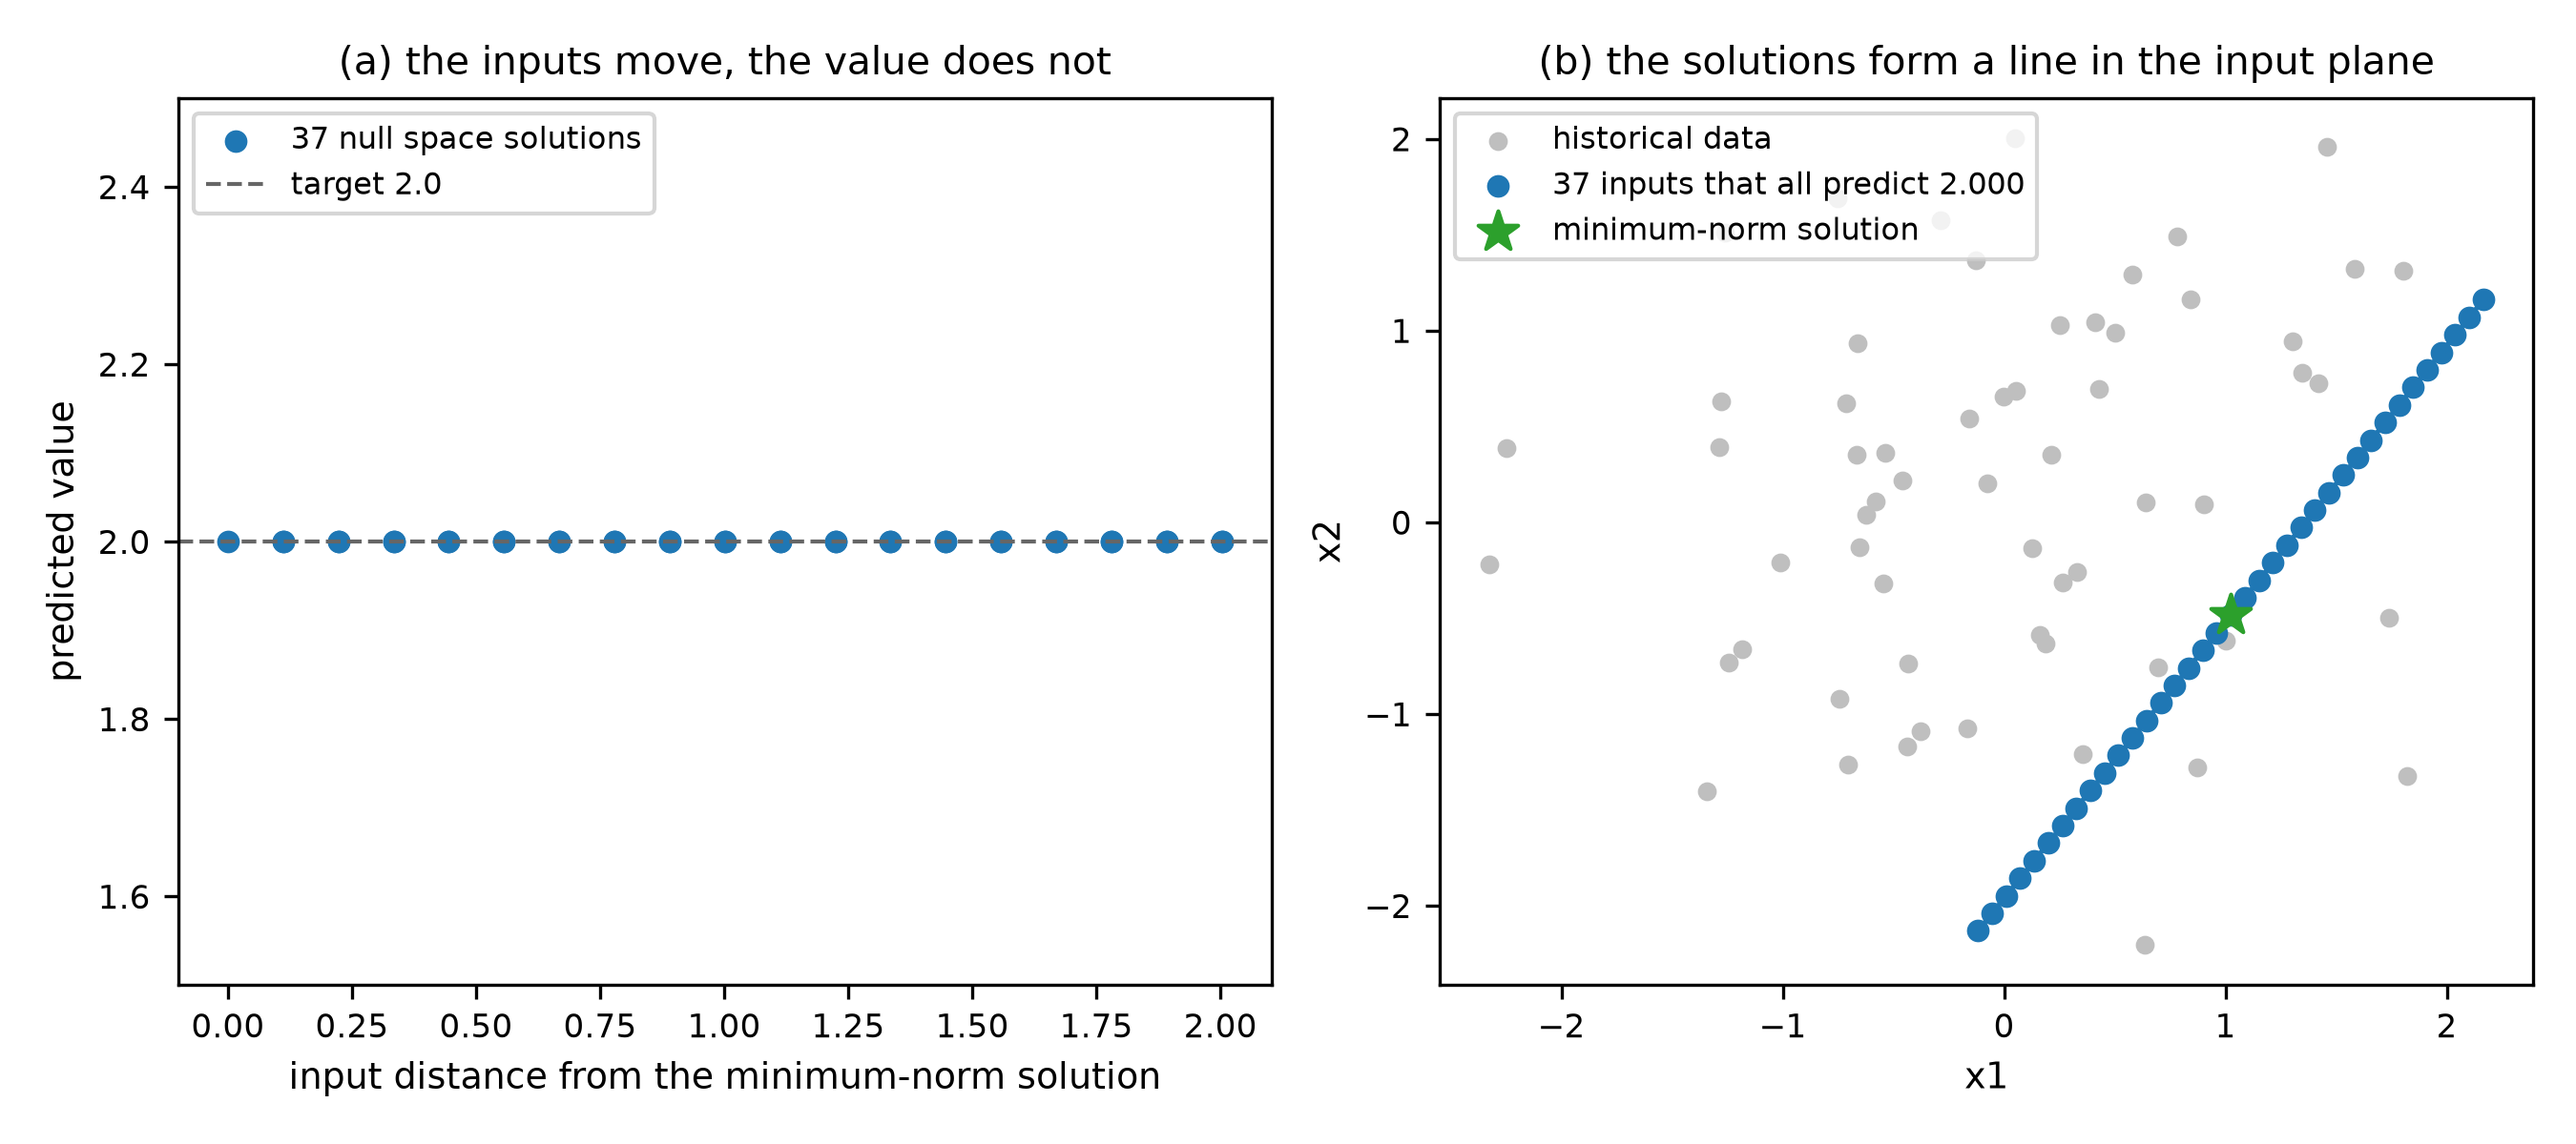
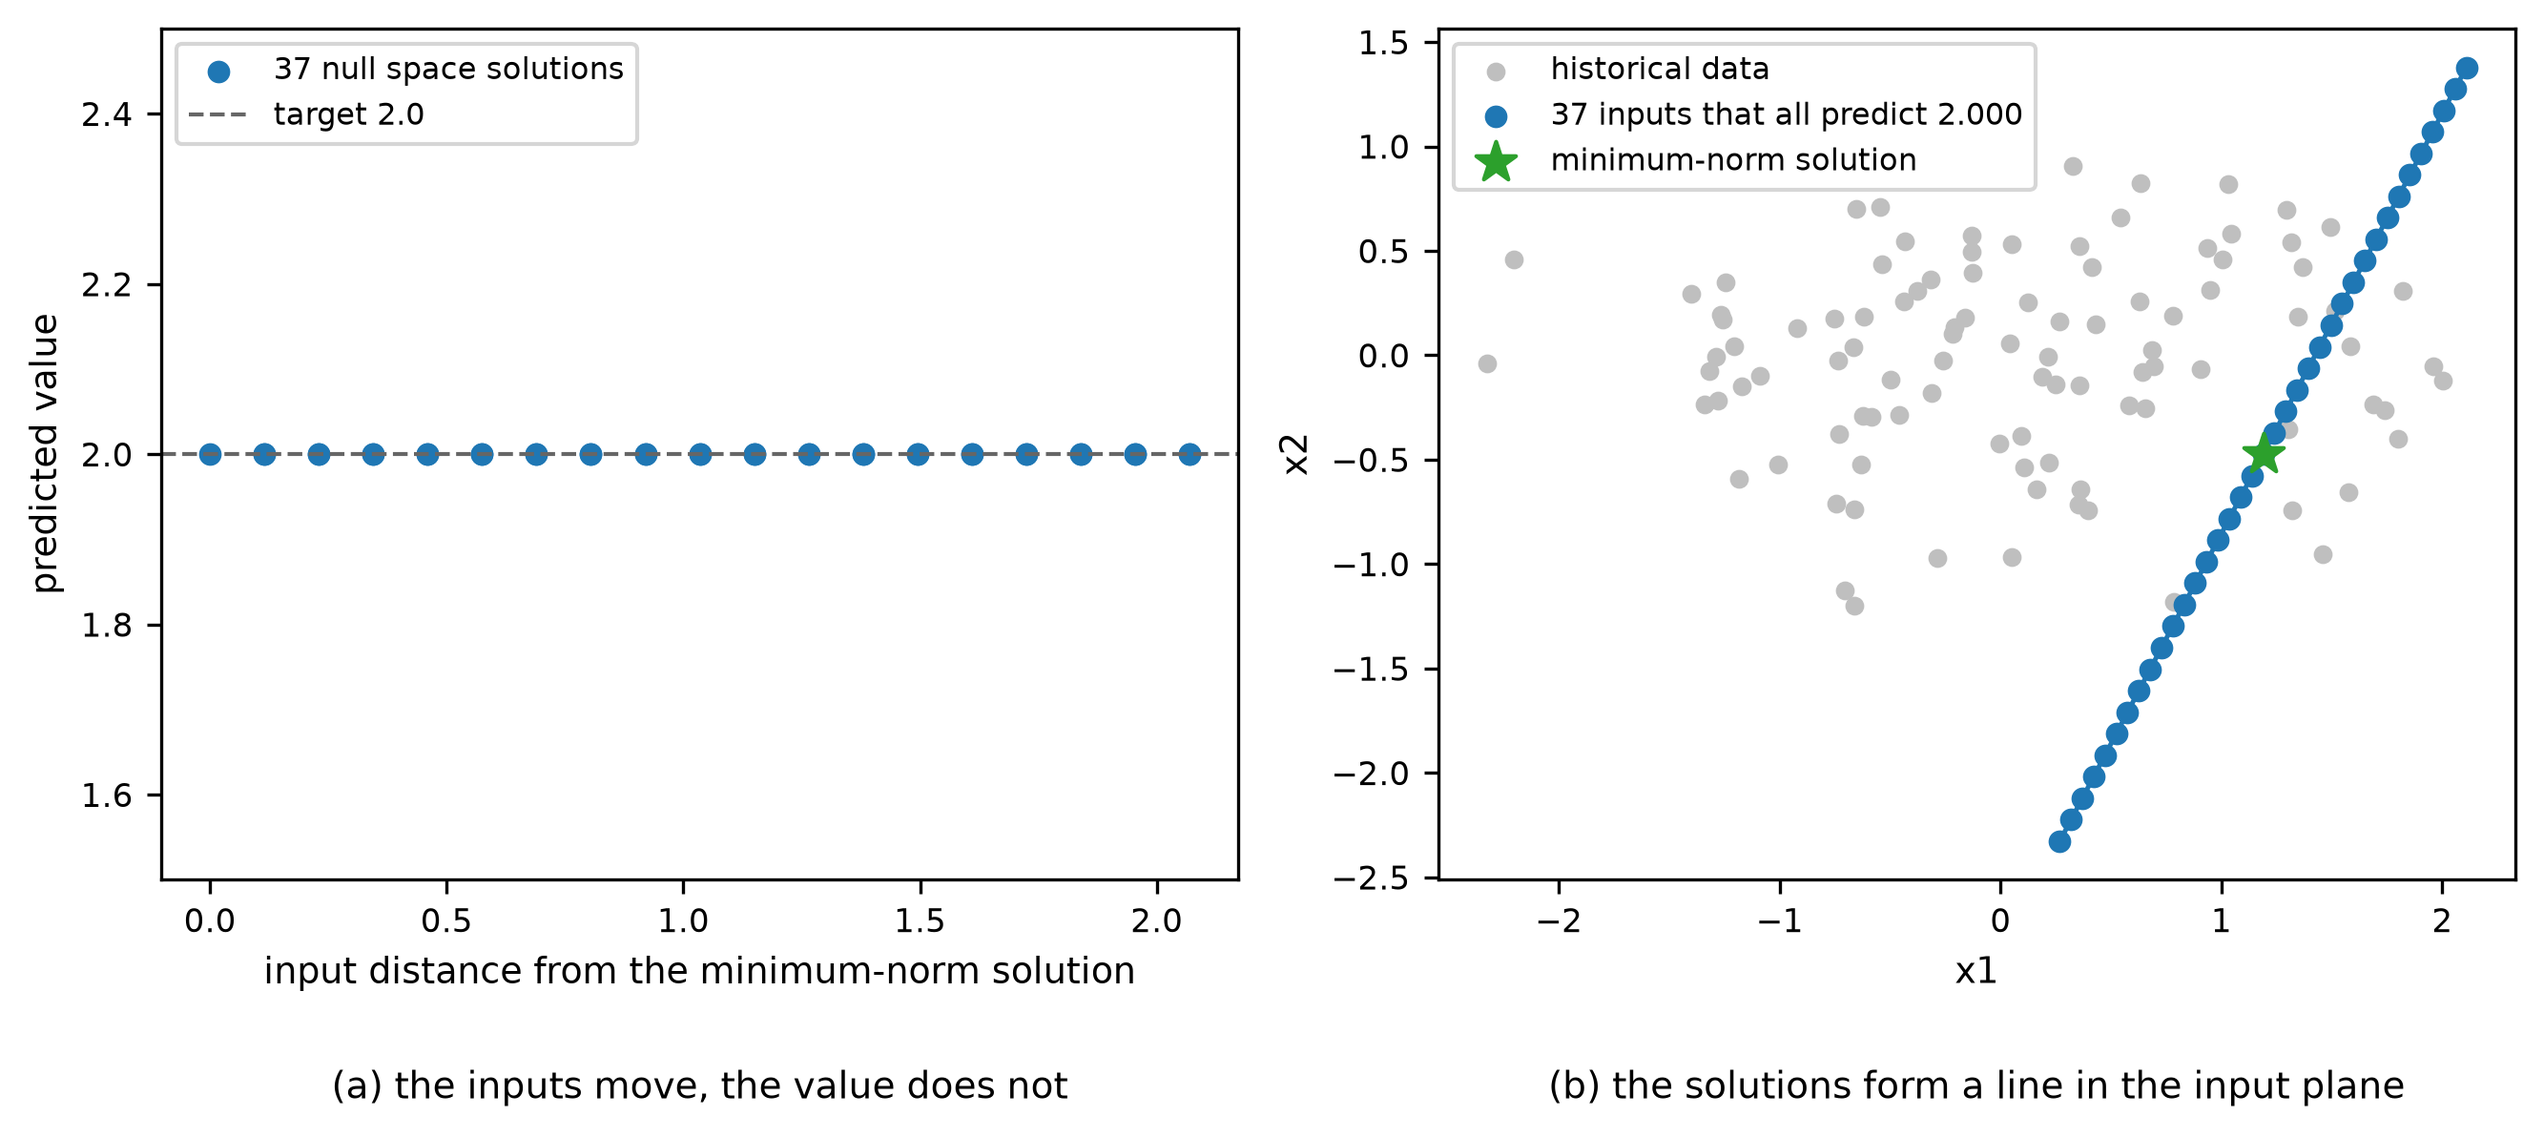
docs(Inversion-Problem): let the two inputs differ in spread
100 samples, x1 twice as wide as x2 around the same mean, so the density
of Fig 3 (a) is an ellipse rather than a circle and the caption can name
the two distributions. Panel labels move under their charts, placed at one
height across the figure.

diff --git a/Models/Inversion-Problem/inversion_problem_fig.py b/Models/Inversion-Problem/inversion_problem_fig.py
@@ -1,6 +1,6 @@
 """Draw the Appendix B and Appendix C figures of inversion-problem.md."""
 __author__ = 'yRocket'
-__version__ = "0.1.0.2026.8.29"  # Semantic Versioning: Major.Minor.Patch.Date(YYYY.M.D)
+__version__ = "0.2.0.2026.8.29"  # Semantic Versioning: Major.Minor.Patch.Date(YYYY.M.D)
 
 import argparse
 import pathlib
@@ -33,12 +33,20 @@ def font_size(scale: float = 1.0) -> float:
     return BASE_FONT_SIZE * FIGSIZE[0] / REFERENCE_WIDTH * scale
 
 
+def sub_caption(fig, axes_group: list, text: str, y: float = 0.02) -> None:
+    """Put the panel label below the chart, centred on the axes the panel is made of."""
+    boxes = [ax.get_position() for ax in axes_group]
+    x = (min(box.x0 for box in boxes) + max(box.x1 for box in boxes)) / 2
+    fig.text(x, y, text, ha='center', va='bottom', fontsize=font_size(1.05))
+
+
 def build_appendix_b_model() -> tuple:
     """Rebuild the Appendix B data and PLS model. Returns (x_data, y_data, x_mean, y_mean, pls)."""
     rng = np.random.default_rng(0)
-    n, k, n_comp = 60, 2, 2
-    x_data = rng.normal(size=(n, k))
-    y_data = 1.5 * x_data[:, 0] - 0.8 * x_data[:, 1] + rng.normal(0, 1.1, n)
+    n, n_comp = 100, 2
+    # both inputs are centred at 0, x1 spread twice as wide as x2
+    x_data = np.column_stack([rng.normal(0.0, 1.0, n), rng.normal(0.0, 0.5, n)])
+    y_data = 1.5 * x_data[:, 0] - 0.8 * x_data[:, 1] + rng.normal(0, 0.85, n)
 
     x_mean, y_mean = x_data.mean(axis=0), y_data.mean()
     pls = PLSRegression(n_components=n_comp, scale=False).fit(x_data - x_mean, y_data - y_mean)
@@ -67,7 +75,7 @@ def draw_parity(out_folder: pathlib.Path) -> pathlib.Path:
                               x_data[:, 1].min() - 0.6:x_data[:, 1].max() + 0.6:120j]
     density = gaussian_kde(x_data.T)(np.vstack([grid_x.ravel(), grid_y.ravel()])).reshape(grid_x.shape)
     ax_main.contour(grid_x, grid_y, density, levels=6, colors=COLORS[0], linewidths=1.0)
-    ax_main.scatter(x_data[:, 0], x_data[:, 1], s=14, color='0.45', label='60 samples')
+    ax_main.scatter(x_data[:, 0], x_data[:, 1], s=14, color='0.45', label='100 samples')
     ax_main.set_xlabel('x1', fontsize=font_size())
     ax_main.set_ylabel('x2', fontsize=font_size())
     ax_main.tick_params(labelsize=font_size(0.9))
@@ -75,14 +83,12 @@ def draw_parity(out_folder: pathlib.Path) -> pathlib.Path:
 
     ax_top.hist(x_data[:, 0], bins=12, color=COLORS[0])
     ax_top.tick_params(labelbottom=False, labelsize=font_size(0.8))
-    ax_top.set_title('(a) the two inputs, drawn from a normal distribution',
-                     fontsize=font_size(1.05))
     ax_right.hist(x_data[:, 1], bins=12, orientation='horizontal', color=COLORS[0])
     ax_right.tick_params(labelleft=False, labelsize=font_size(0.8))
 
     span = [min(y_data.min(), y_pred.min()) - 0.2, max(y_data.max(), y_pred.max()) + 0.2]
     ax_parity.plot(span, span, color='0.5', linestyle='--', linewidth=1.0, label='1:1 line')
-    ax_parity.scatter(y_data, y_pred, s=18, color=COLORS[0], label='60 samples')
+    ax_parity.scatter(y_data, y_pred, s=18, color=COLORS[0], label='100 samples')
     ax_parity.axhline(2.0, color=COLORS[3], linestyle=':', linewidth=1.2, label='inversion target 2.0')
     ax_parity.set_xlim(span)
     ax_parity.set_ylim(span)
@@ -90,7 +96,10 @@ def draw_parity(out_folder: pathlib.Path) -> pathlib.Path:
     ax_parity.set_ylabel('predicted value', fontsize=font_size())
     ax_parity.tick_params(labelsize=font_size(0.9))
     ax_parity.legend(fontsize=font_size(0.8), loc='upper left')
-    ax_parity.set_title(f'(b) parity plot, R2 = {r2:.3f}, RMSE = {rmse:.2f}', fontsize=font_size(1.05))
+
+    fig.subplots_adjust(bottom=0.20)
+    sub_caption(fig, [ax_main, ax_top, ax_right], '(a) the two sampled inputs and their distributions')
+    sub_caption(fig, [ax_parity], f'(b) parity plot, R2 = {r2:.3f}, RMSE = {rmse:.2f}')
 
     out_path = out_folder / 'appendix-b-parity.png'
     out_folder.mkdir(parents=True, exist_ok=True)
@@ -134,7 +143,6 @@ def draw_null_space(out_folder: pathlib.Path) -> pathlib.Path:
     ax.set_ylabel('predicted value', fontsize=font_size())
     ax.tick_params(labelsize=font_size(0.9))
     ax.legend(fontsize=font_size(0.85), loc='upper left')
-    ax.set_title('(a) the inputs move, the value does not', fontsize=font_size(1.1))
 
     ax = axes[1]
     ax.scatter(x_data[:, 0], x_data[:, 1], s=14, color='0.75', label='historical data')
@@ -147,12 +155,13 @@ def draw_null_space(out_folder: pathlib.Path) -> pathlib.Path:
     ax.set_ylabel('x2', fontsize=font_size())
     ax.tick_params(labelsize=font_size(0.9))
     ax.legend(fontsize=font_size(0.85), loc='upper left')
-    ax.set_title('(b) the solutions form a line in the input plane', fontsize=font_size(1.1))
 
-    fig.tight_layout()
+    fig.tight_layout(rect=(0.0, 0.08, 1.0, 1.0))
+    sub_caption(fig, [axes[0]], '(a) the inputs move, the value does not')
+    sub_caption(fig, [axes[1]], '(b) the solutions form a line in the input plane')
     out_path = out_folder / 'appendix-b-null-space.png'
     out_folder.mkdir(parents=True, exist_ok=True)
-    fig.savefig(out_path, dpi=DPI)
+    fig.savefig(out_path, dpi=DPI, bbox_inches='tight')
     plt.close(fig)
     print(f'wrote {out_path}, predictions in [{preds.min():.4f}, {preds.max():.4f}], '
           f'distance up to {distances.max():.3f}')
@@ -208,7 +217,6 @@ def draw_constrained_inversion(out_folder: pathlib.Path) -> pathlib.Path:
     ax.set_ylabel('x3', fontsize=font_size())
     ax.tick_params(labelsize=font_size(0.9))
     ax.legend(fontsize=font_size(0.85), loc='upper left')
-    ax.set_title('(a) the constrained solution keeps the input correlation', fontsize=font_size(1.05))
 
     ax = axes[1]
     labels = ['T2', 'SPE']
@@ -229,12 +237,13 @@ def draw_constrained_inversion(out_folder: pathlib.Path) -> pathlib.Path:
     ax.set_ylabel('value / limit', fontsize=font_size())
     ax.tick_params(axis='y', labelsize=font_size(0.9))
     ax.legend(fontsize=font_size(0.85))
-    ax.set_title(f'(b) both hit the target {y_des:.1f}, only one stays valid', fontsize=font_size(1.05))
 
-    fig.tight_layout()
+    fig.tight_layout(rect=(0.0, 0.08, 1.0, 1.0))
+    sub_caption(fig, [axes[0]], '(a) the constrained solution keeps the input correlation')
+    sub_caption(fig, [axes[1]], f'(b) both hit the target {y_des:.1f}, only one stays valid')
     out_path = out_folder / 'appendix-c-constrained-inversion.png'
     out_folder.mkdir(parents=True, exist_ok=True)
-    fig.savefig(out_path, dpi=DPI)
+    fig.savefig(out_path, dpi=DPI, bbox_inches='tight')
     plt.close(fig)
     print(f'wrote {out_path}')
     print(f'  with SPE : pred={forward.predict(x_sol[None, :])[0]:.4f} '

diff --git a/Models/Inversion-Problem/inversion-problem.md b/Models/Inversion-Problem/inversion-problem.md
@@ -1,5 +1,5 @@
 # Inverse Problem and Model Inversion
-Rev. 12 | Created: 2026-08-28 | Updated: 2026-08-29 01:25 CDT
+Rev. 13 | Created: 2026-08-28 | Updated: 2026-08-29 01:30 CDT
 
 학습된 model 은 보통 입력에서 출력을 계산하는 방향으로 쓰인다. 원하는 출력을 먼저 정하고 그것을 만들어 내는 입력을 되찾는 문제가 inverse problem 이고, 이미 학습된 model 을 그 목적에 되돌려 쓰는 방법이 model inversion 이다. 이 문서는 두 용어를 정의하고, 해법을 다섯 축으로 분류한 다음, latent variable model inversion 의 고전적 결과와 model 종류별 inversion 방법을 정리한다.
 
@@ -331,13 +331,14 @@ from sklearn.cross_decomposition import PLSRegression
 rng = np.random.default_rng(0)
 
 # historical plant data: 2 process inputs, 1 quality output
-n, k, n_comp = 60, 2, 2
-X = rng.normal(size=(n, k))
-y = 1.5 * X[:, 0] - 0.8 * X[:, 1] + rng.normal(0, 1.1, n)
+# both inputs are centred at 0, x1 spread twice as wide as x2
+n, n_comp = 100, 2
+X = np.column_stack([rng.normal(0.0, 1.0, n), rng.normal(0.0, 0.5, n)])
+y = 1.5 * X[:, 0] - 0.8 * X[:, 1] + rng.normal(0, 0.85, n)
 
 x_mean, y_mean = X.mean(axis=0), y.mean()
 pls = PLSRegression(n_components=n_comp, scale=False).fit(X - x_mean, y - y_mean)
-P = pls.x_loadings_          # (k, n_comp)
+P = pls.x_loadings_          # (2, n_comp)
 Q = pls.y_loadings_          # (1, n_comp)
 
 # 1. direct inversion: minimum-norm scores that hit the target value
@@ -363,15 +364,15 @@ print("prediction max :", round(preds.max(), 6))
 print("input spread   :", np.round(x_alt.max(axis=0) - x_alt.min(axis=0), 3))
 ```
 
-뒤집기 전에 뒤집을 model 부터 본다. Fig 3 (a) 는 학습에 쓴 60 개 표본의 두 process input 을 그린 것이다. 등고선은 두 입력이 함께 이루는 밀도이고, 위와 오른쪽의 막대는 각 입력이 따로 이루는 분포이다. 두 입력을 모두 표준정규분포에서 뽑았으므로 막대는 중심이 높고 양끝이 낮은 모양이며, 이 구름이 곧 model 이 배운 영역이다.
+뒤집기 전에 뒤집을 model 부터 본다. Fig 3 (a) 는 학습에 쓴 100 개 표본의 두 process input 을 그린 것이다. 등고선은 두 입력이 함께 이루는 밀도이고, 위와 오른쪽의 막대는 각 입력이 따로 이루는 분포이다. 두 입력은 평균이 0 으로 같고 산포만 달라 $x_1$ 의 표준편차가 $x_2$ 의 두 배이며, 그래서 구름이 가로로 늘어난 타원을 이룬다. 이 구름이 곧 model 이 배운 영역이다.
 
-Fig 3 (b) 는 같은 표본의 parity plot 이며, 점 하나가 표본 하나이다. 가로축은 그 표본의 측정값 $y$ 이고 세로축은 같은 표본에 대한 model 의 예측 $\hat{y}$ 이므로, 점이 1:1 선 위에 있으면 그 표본을 정확히 맞춘 것이고 선에서 세로로 벗어난 거리가 그 표본의 잔차 $y - \hat{y}$ 이다.
+Fig 3 (b) 는 같은 100 개 표본의 parity plot 이며, 점 하나가 표본 하나이다. 가로축은 그 표본의 측정값 $y$ 이고 세로축은 같은 표본에 대한 model 의 예측 $\hat{y}$ 이므로, 점이 1:1 선 위에 있으면 그 표본을 정확히 맞춘 것이고 선에서 세로로 벗어난 거리가 그 표본의 잔차 $y - \hat{y}$ 이다.
 
-이 예시의 model 은 $R^{2} = 0.700$, RMSE 1.05 로 잘 맞는 편이 아니다. 목표 2.0 은 표본이 덮는 $-4.9$ 에서 $3.7$ 안에 있어 외삽은 아니지만, 뒤집어 얻은 조건이 실제로 낼 값은 RMSE 만큼 흔들린다. Inversion 의 정확도는 forward model 의 정확도를 넘지 못하므로, 이 그림을 먼저 보고 뒤집을지를 정한다.
+이 예시의 model 은 $R^{2} = 0.701$, RMSE 0.95 로 잘 맞는 편이 아니다. 목표 2.0 은 표본이 덮는 $-4.4$ 에서 $5.2$ 안에 있어 외삽은 아니지만, 뒤집어 얻은 조건이 실제로 낼 값은 RMSE 만큼 흔들린다. Inversion 의 정확도는 forward model 의 정확도를 넘지 못하므로, 이 그림을 먼저 보고 뒤집을지를 정한다.
 
 <img src="inversion-problem_fig/appendix-b-parity.png" width="900" style="max-width: 100%;" alt="Fig 3">
 
-Fig 3. Sampled inputs and the parity plot of the Appendix B forward model
+Fig 3. Appendix B inputs, $x_1 \sim N(0, 1.0^{2})$ and $x_2 \sim N(0, 0.5^{2})$, and the parity plot of the forward model
 
 Code 가 만든 `x_alt` 37 개는 두 성분이 모두 다른 입력이지만 예측값은 전부 2.000 이다.
 
